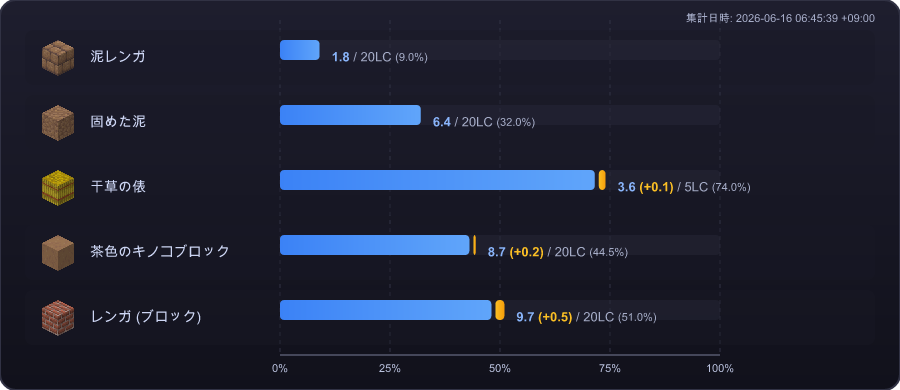
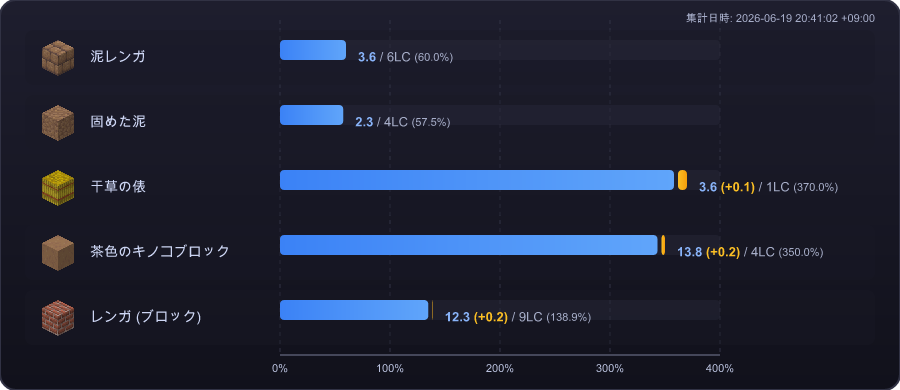
再度集計

diff --git a/src/graph_generator.rs b/src/graph_generator.rs
@@ -21,6 +21,35 @@ fn sanitize_url(url: &str) -> String {
         .collect()
 }
 
+fn unit_capacity(unit: &str) -> f64 {
+    unit.chars()
+        .filter(|c| c.is_ascii_digit())
+        .collect::<String>()
+        .parse::<f64>()
+        .ok()
+        .filter(|capacity| *capacity > 0.0)
+        .unwrap_or(20.0)
+}
+
+fn total_ratio(item: &ItemData) -> f64 {
+    let total_value = item.value + item.market_premium.unwrap_or(0.0);
+    (total_value / unit_capacity(&item.unit)).max(0.0)
+}
+
+fn axis_max_ratio(items: &[ItemData]) -> f64 {
+    let max_ratio = items.iter().map(total_ratio).fold(1.0, f64::max);
+
+    if max_ratio <= 1.0 {
+        1.0
+    } else {
+        max_ratio.ceil()
+    }
+}
+
+fn percent_label(ratio: f64) -> String {
+    format!("{:.0}%", ratio * 100.0)
+}
+
 pub async fn generate_graph() -> Result<(), anyhow::Error> {
     // 1. Read JSON input data
     let data_path = "./input/chart_data.json";
@@ -160,22 +189,23 @@ pub async fn generate_graph() -> Result<(), anyhow::Error> {
         width, height, width, height, width, height, generated_at
     ));
 
-    // Grid details (scaled relative to 100% of capacity)
+    // Grid details (scaled relative to the largest value in the data)
     let grid_x_start = 280.0;
-    let grid_scale = 440.0; // 100% = 440px
+    let grid_scale = 440.0;
     let grid_y_start = 20.0;
     let grid_y_end = 355.0;
+    let axis_max_ratio = axis_max_ratio(&items);
 
-    // Draw Grid Lines representing percentages (0%, 25%, 50%, 75%, 100%)
+    // Draw Grid Lines representing percentages up to the current axis max
     let ticks = [0.0, 0.25, 0.50, 0.75, 1.00];
-    let tick_labels = ["0%", "25%", "50%", "75%", "100%"];
-    for (idx, &t) in ticks.iter().enumerate() {
+    for &t in &ticks {
         let x = grid_x_start + t * grid_scale;
+        let label = percent_label(t * axis_max_ratio);
         svg.push_str(&format!(
             r##"  <line x1="{}" y1="{}" x2="{}" y2="{}" stroke="#313244" stroke-width="1" stroke-dasharray="4"/>
   <text x="{}" y="372" font-size="11" fill="#bac2de" font-family="sans-serif" text-anchor="middle">{}</text>
 "##,
-            x, grid_y_start, x, grid_y_end, x, tick_labels[idx]
+            x, grid_y_start, x, grid_y_end, x, label
         ));
     }
 
@@ -196,13 +226,7 @@ pub async fn generate_graph() -> Result<(), anyhow::Error> {
         let bar_h = 20.0;
 
         // Dynamic max capacity based on item unit (e.g. 5 for "5LC", 20 for "20LC")
-        let max_lc = item
-            .unit
-            .chars()
-            .filter(|c| c.is_ascii_digit())
-            .collect::<String>()
-            .parse::<f64>()
-            .unwrap_or(20.0);
+        let max_lc = unit_capacity(&item.unit);
 
         // Draw Row background block
         svg.push_str(&format!(
@@ -257,8 +281,8 @@ pub async fn generate_graph() -> Result<(), anyhow::Error> {
 
         // Calculate lengths as percentage of capacity
         let premium_val = item.market_premium.unwrap_or(0.0);
-        let base_w = (item.value / max_lc) * grid_scale;
-        let premium_w = (premium_val / max_lc) * grid_scale;
+        let base_w = (item.value / max_lc / axis_max_ratio) * grid_scale;
+        let premium_w = (premium_val / max_lc / axis_max_ratio) * grid_scale;
         let total_pct = ((item.value + premium_val) / max_lc) * 100.0;
 
         if premium_val > 0.0 {